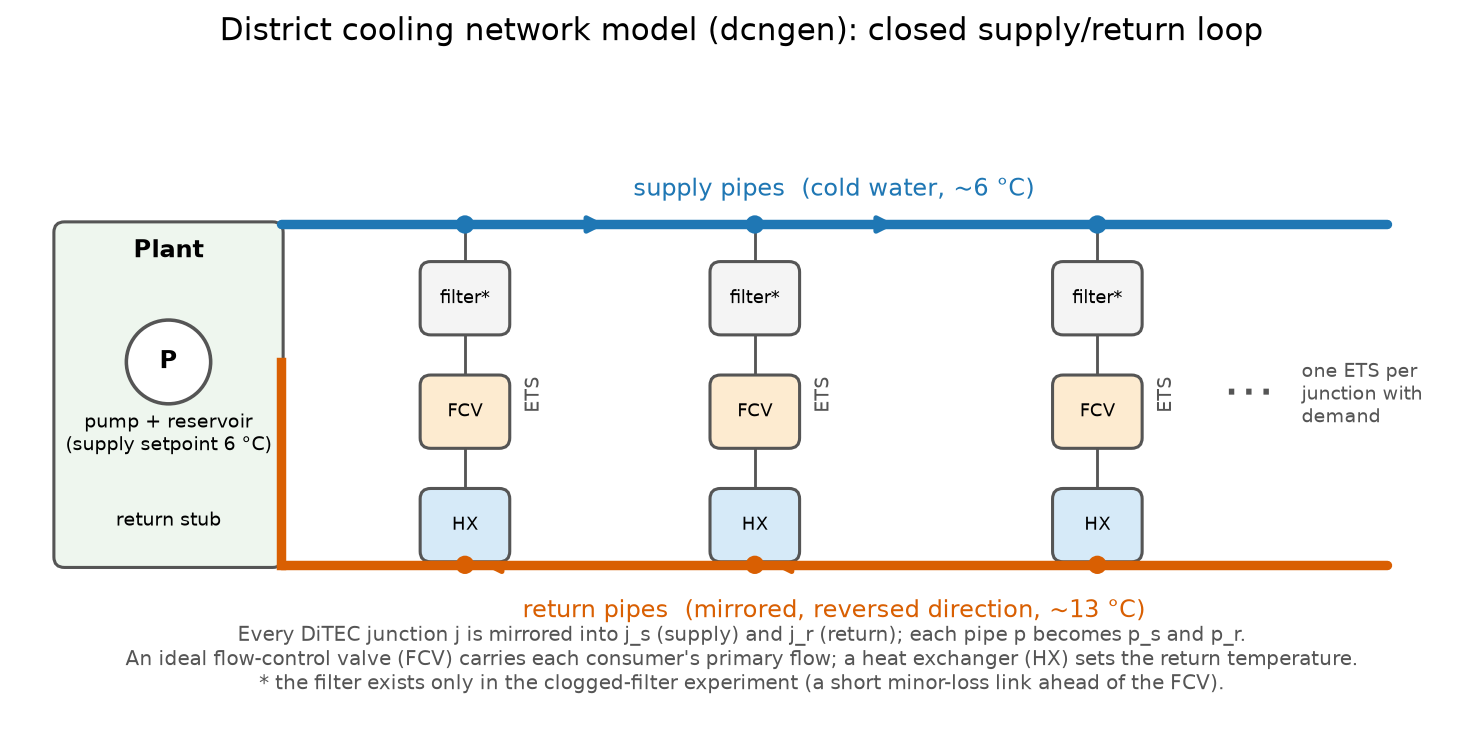
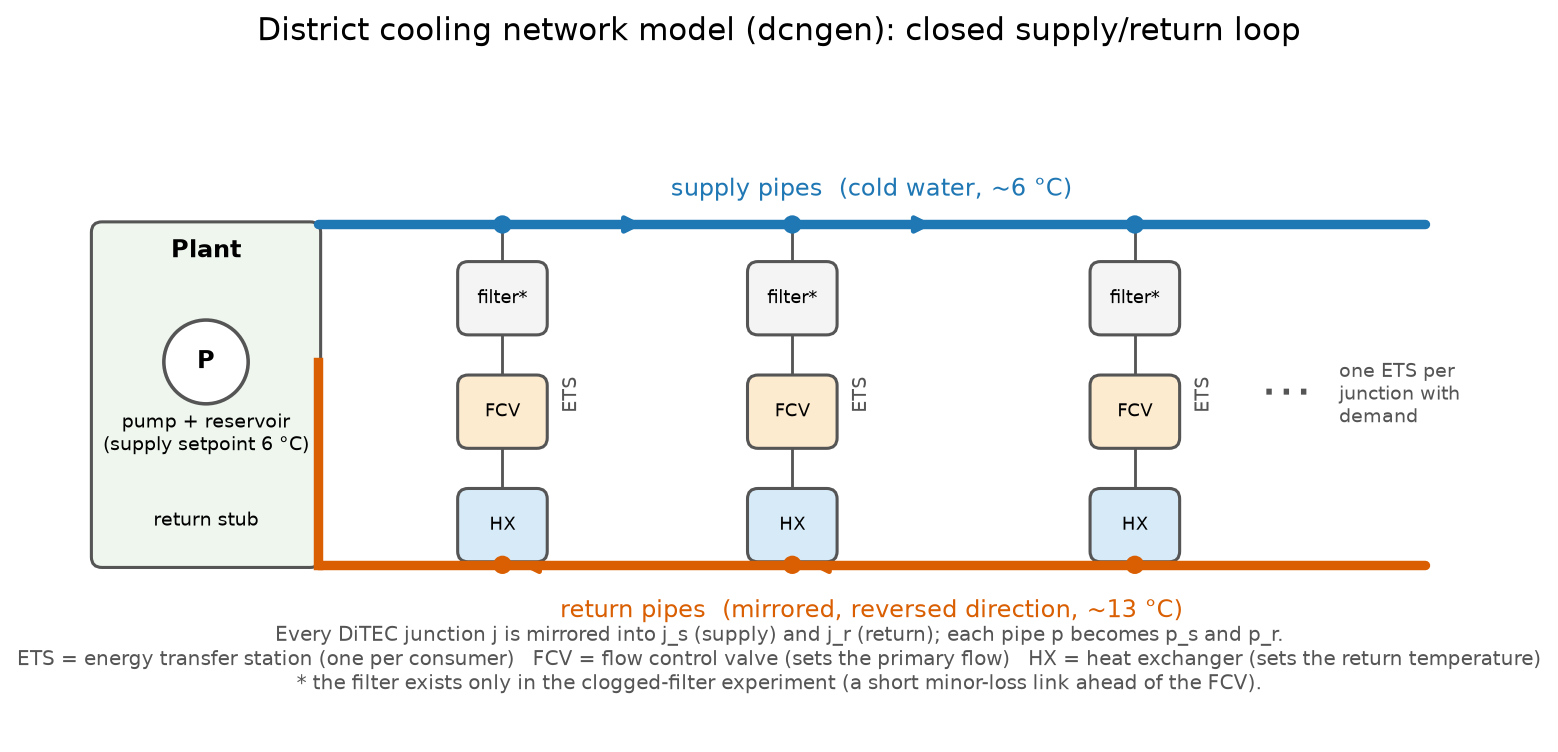
update README.md

diff --git a/scripts/make_figures.py b/scripts/make_figures.py
@@ -83,7 +83,7 @@ def schematic() -> Path:
 
     ax.text(5.5, 0.35,
             "Every DiTEC junction j is mirrored into j_s (supply) and j_r (return); each pipe p becomes p_s and p_r.\n"
-            "An ideal flow-control valve (FCV) carries each consumer's primary flow; a heat exchanger (HX) sets the return temperature.\n"
+            "ETS = energy transfer station (one per consumer)   FCV = flow control valve (sets the primary flow)   HX = heat exchanger (sets the return temperature)\n"
             "* the filter exists only in the clogged-filter experiment (a short minor-loss link ahead of the FCV).",
             ha="center", fontsize=8.5, color=GREY)
     path = OUT / "dcn_schematic.png"
@@ -97,7 +97,7 @@ def fault_points() -> Path:
     ax.set_xlim(0, 11.2)
     ax.set_ylim(0, 5.2)
     ax.axis("off")
-    ax.set_title("Where each FSED is injected", fontsize=13)
+    ax.set_title("Where each FSED (fault / system efficiency degradation) is injected", fontsize=13)
 
     ys, yr, x = 4.3, 0.8, 2.2
     ax.plot([0.4, 3.8], [ys, ys], color=SUPPLY, lw=4)

diff --git a/README.md b/README.md
@@ -6,6 +6,21 @@ and on a Linux CPU server.
 
 ![Workflow](docs/images/workflow.png)
 
+## Terms and abbreviations
+
+| Term | Meaning |
+|---|---|
+| **DCN** | district cooling network |
+| **ETS** | energy transfer station: the unit at each consumer that couples it to the network (here an FCV and an HX) |
+| **FCV** | flow control valve: sets the primary chilled-water flow through an ETS |
+| **HX** | heat exchanger: transfers heat from the building loop to the network and so sets the return temperature |
+| **UA** | overall heat-transfer conductance of an HX [W/K]; fouling lowers it |
+| **FSED** | fault and system efficiency degradation: one of the five cases studied (poor balancing, excessive control margin, clogged filter, HX fouling, hydronic valve fault) |
+| **SWiM** | the research project that prioritised these five FSEDs |
+| **DiTEC-WDN** | the water-distribution-network dataset used as the network and demand input |
+| **pair** | a healthy twin and a faulted twin simulated with identical loads, seed and network |
+| **RQ1-RQ3** | the thesis research questions (below) |
+
 ## The network
 
 dcngen turns a water-distribution network (DiTEC-WDN, here `hanoi_8GB_1Y`: 31 junctions, 34 pipes, one source)
